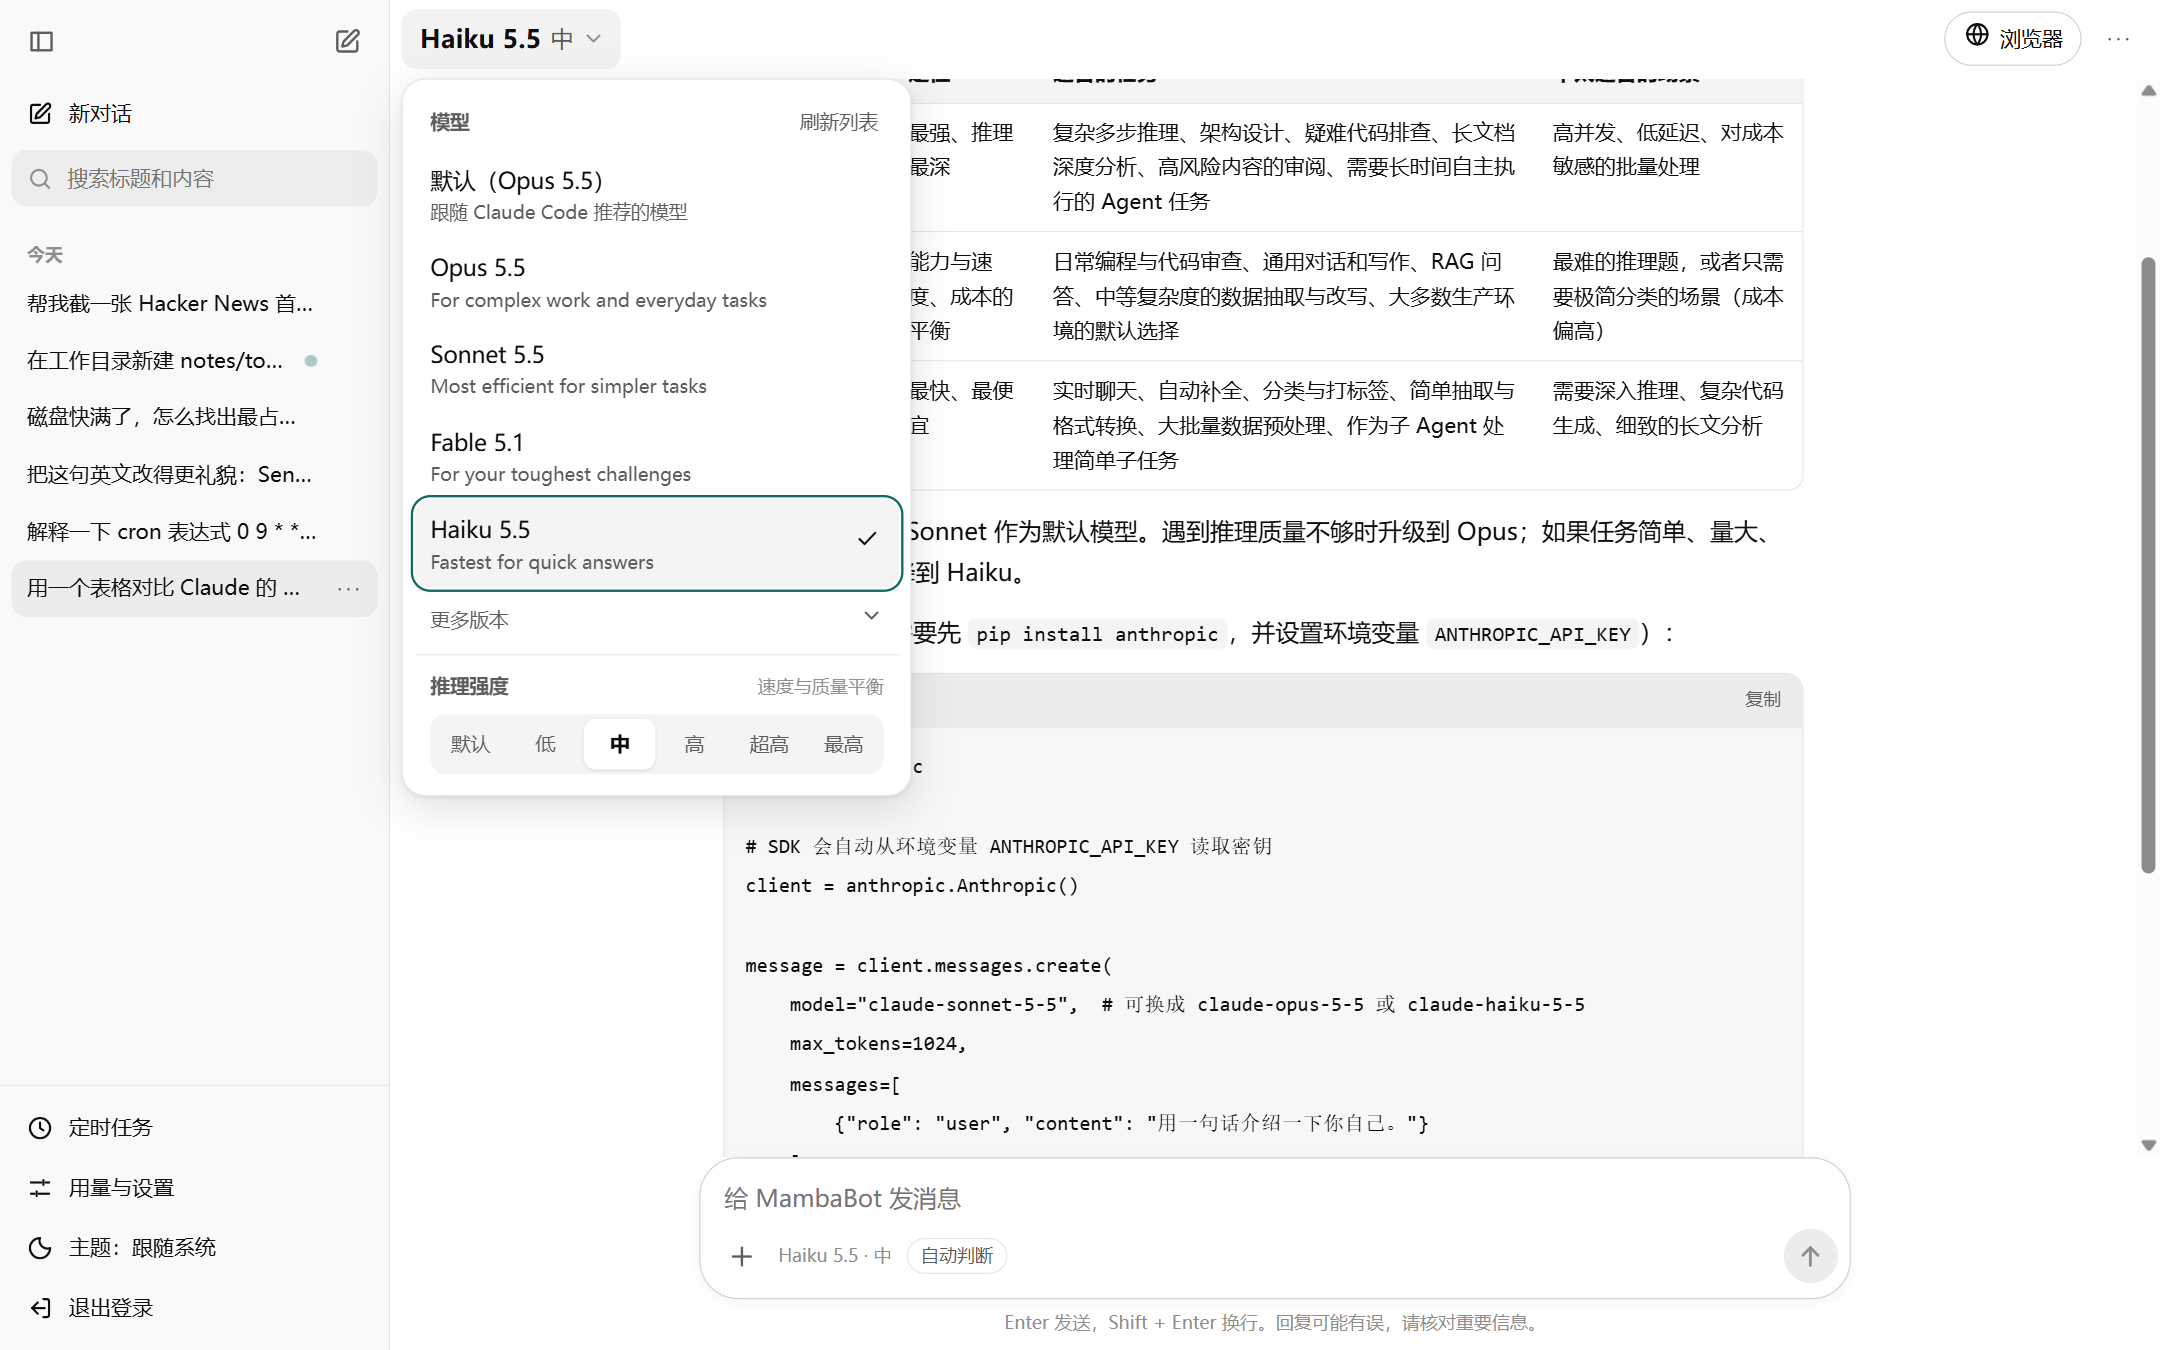
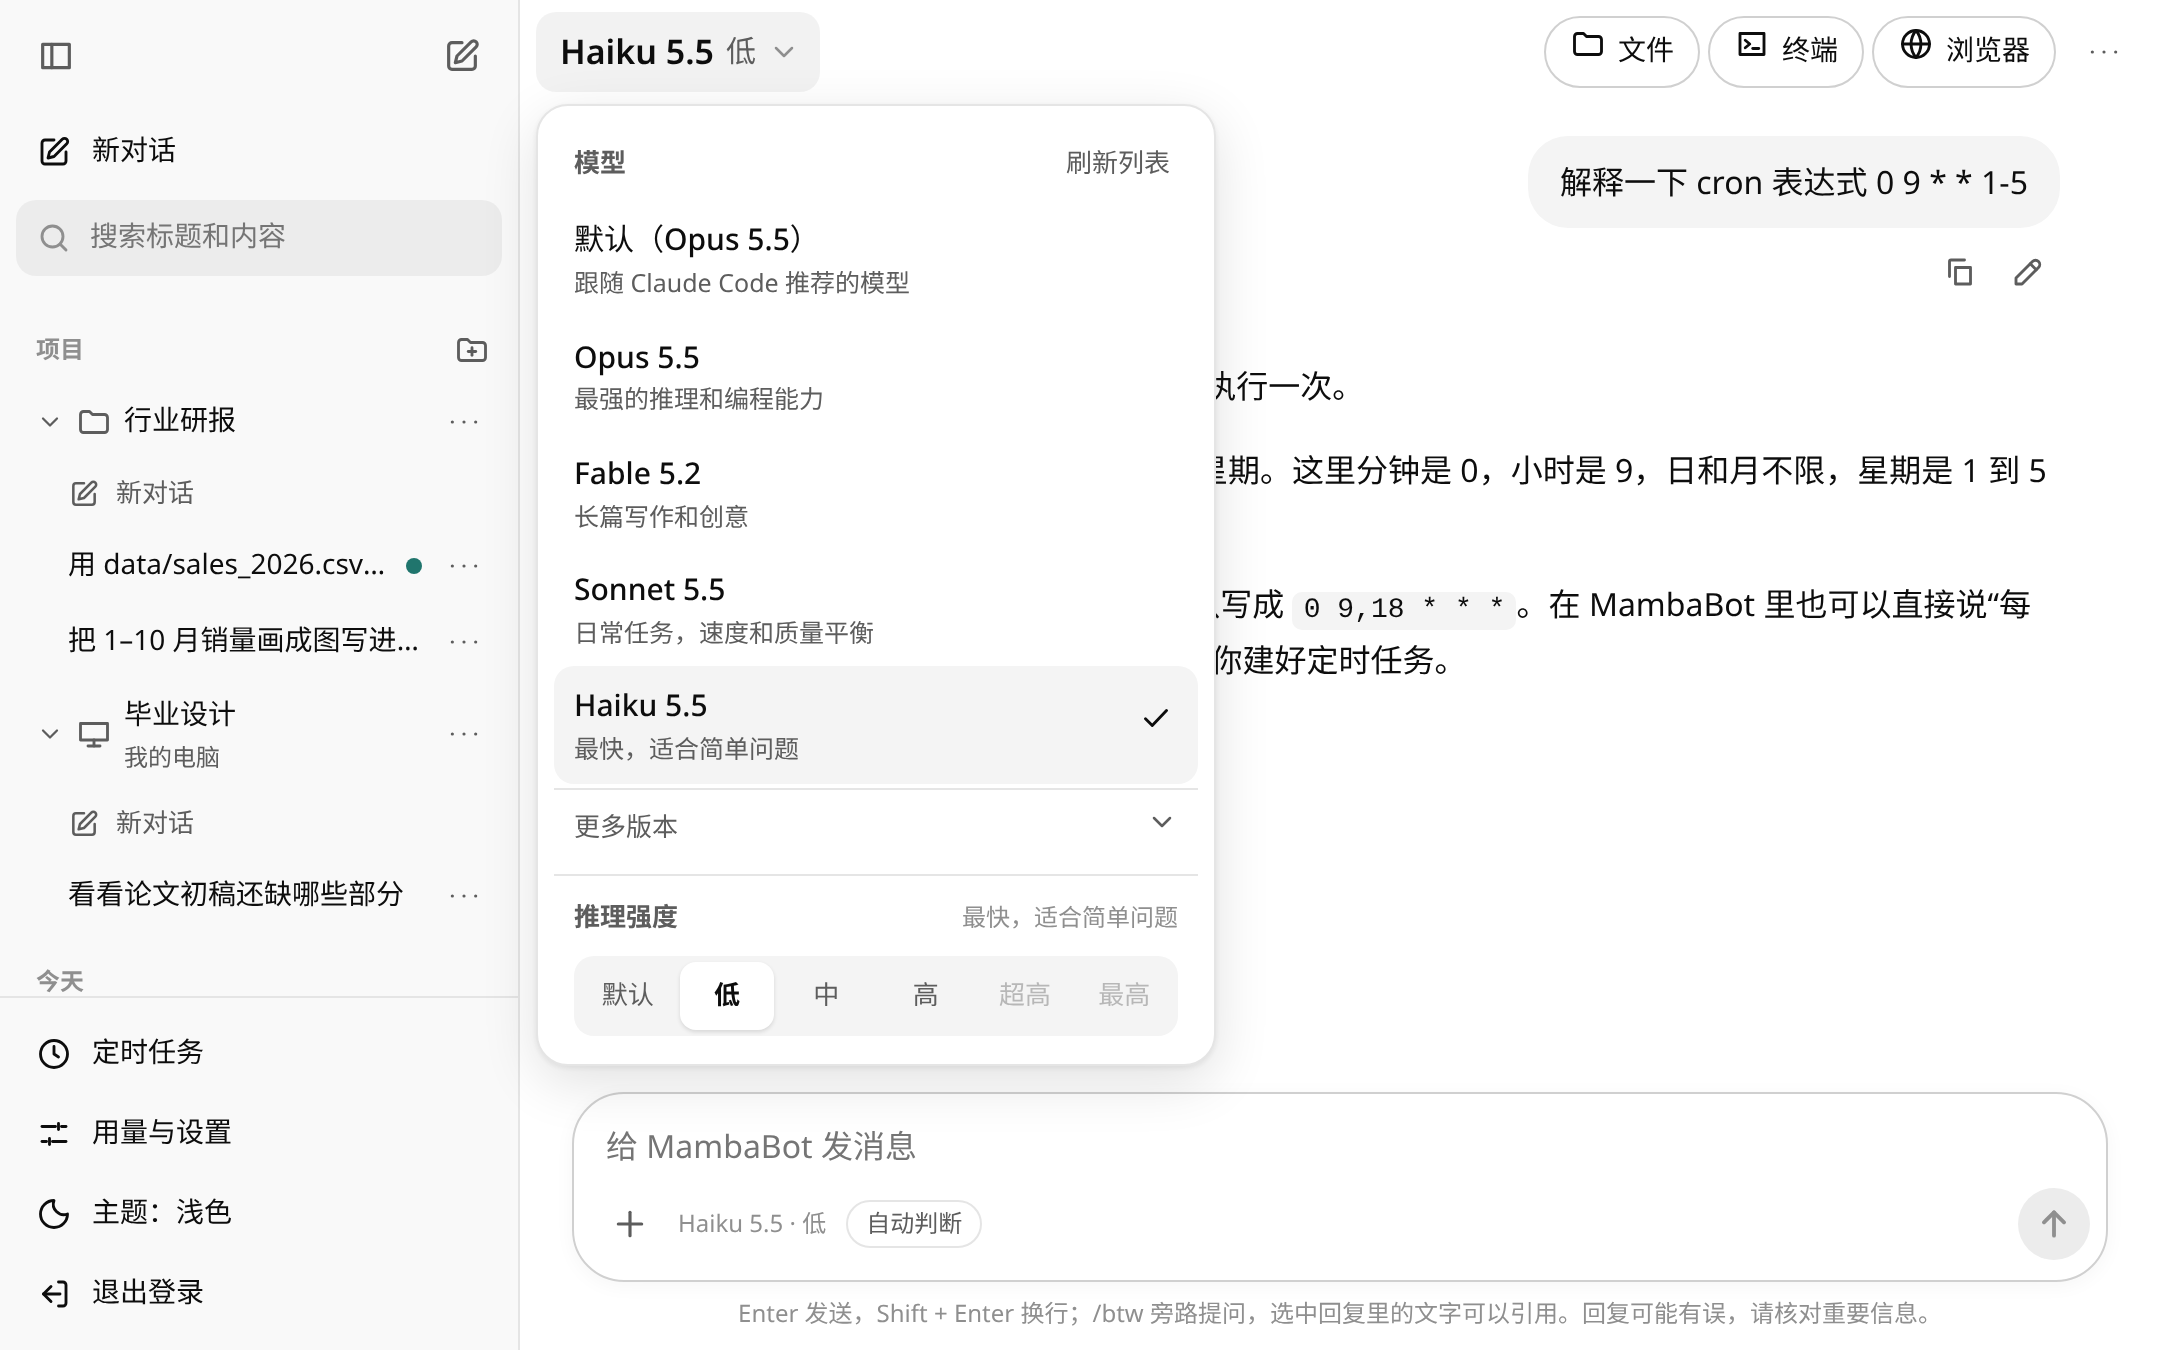
docs: v0.6.0 screenshots
Retake the README screenshots on the v0.6.0 interface and add six for the
new features: side questions and queued follow-ups, a remote project with
the outline open, instant sending, quoting, a new project on a remote
machine, and remote machines in Settings. Example data from a local
instance. The quote button icon is redrawn as a closing quote mark.

diff --git a/public/icons.js b/public/icons.js
@@ -41,7 +41,7 @@ const PATHS = {
   'folder-plus': ['M3 7a2 2 0 0 1 2-2h4l2 2h8a2 2 0 0 1 2 2v8a2 2 0 0 1-2 2H5a2 2 0 0 1-2-2z', 'M12 10.5v5', 'M9.5 13h5'],
   download: ['M12 4v11', 'M7 10l5 5 5-5', 'M5 20h14'],
   terminal: ['M4 5h16v14H4z', 'M7.5 9.5l3 2.5-3 2.5', 'M12.5 15h4'],
-  quote: ['M10 7H6a2 2 0 0 0-2 2v3h5v5H4', 'M20 7h-4a2 2 0 0 0-2 2v3h5v5h-5'],
+  quote: ['M5 7h4v4H5z', 'M9 11c0 3-1.5 5-4 6', 'M15 7h4v4h-4z', 'M19 11c0 3-1.5 5-4 6'],
   question: ['M12 21a9 9 0 1 0 0-18 9 9 0 0 0 0 18z', 'M9.5 9.5a2.5 2.5 0 1 1 3.5 2.3c-.6.3-1 .9-1 1.6v.6', 'M12 17h.01'],
   monitor: ['M3 5h18v11H3z', 'M8 20h8', 'M12 16v4'],
   list: ['M9 6h11', 'M9 12h11', 'M9 18h11', 'M4.5 6h.01', 'M4.5 12h.01', 'M4.5 18h.01'],
